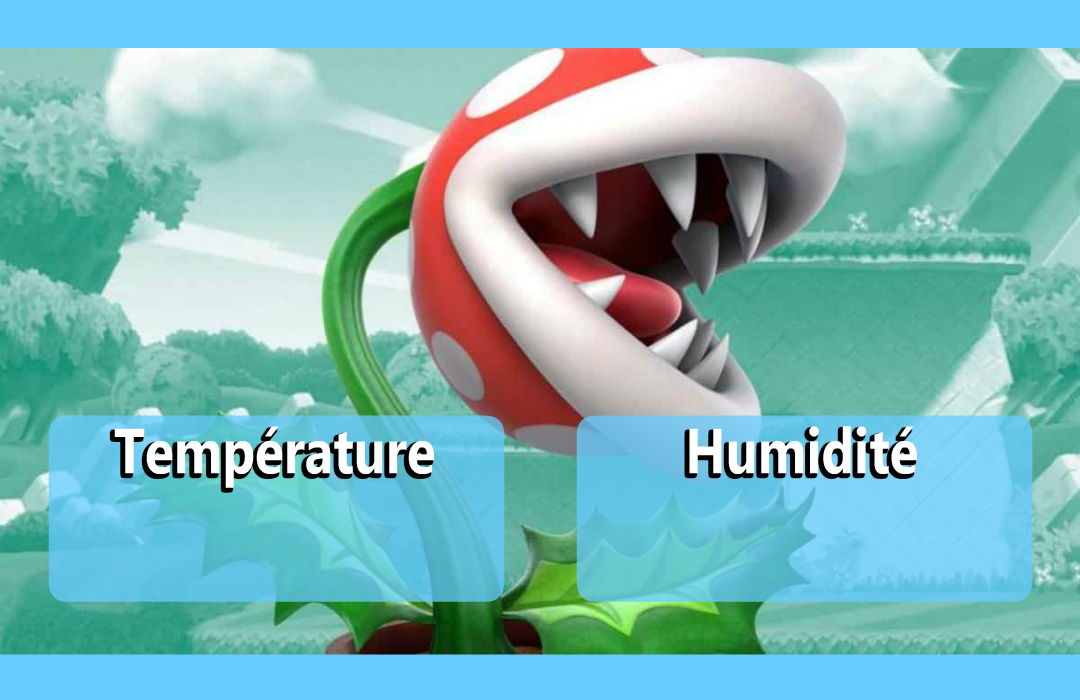
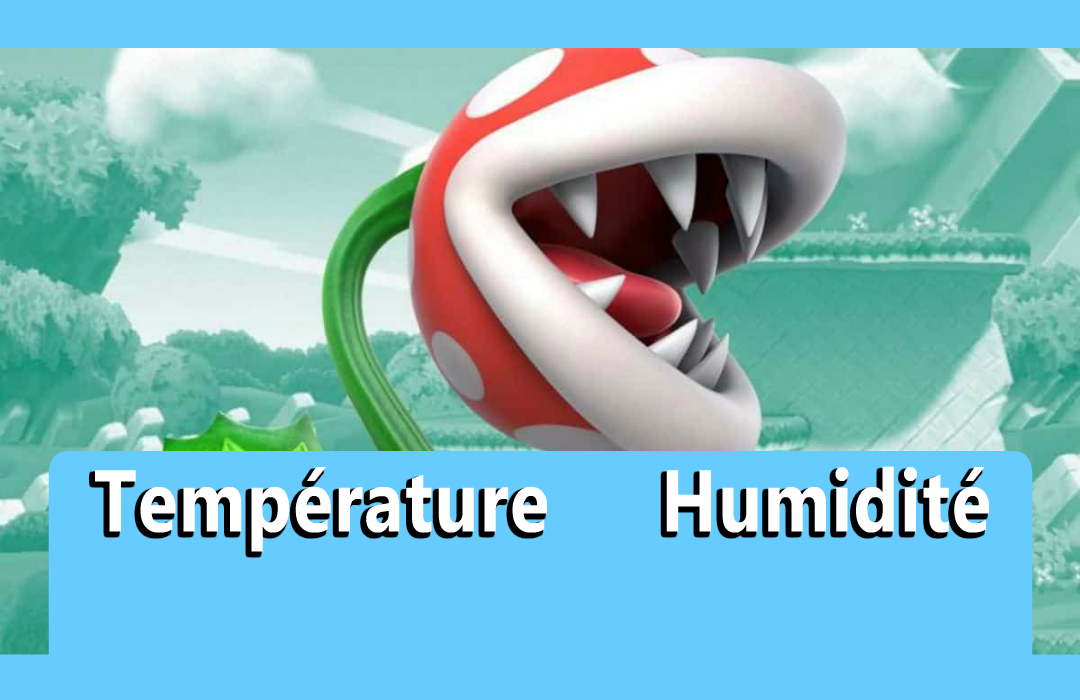
Added text onto images

Changed region(s): [[0.0306, 0.57, 0.9778, 0.96]]

diff --git a/scenario.py b/scenario.py
@@ -2,8 +2,10 @@ from __future__ import absolute_import
 
 from data_drawer import BarDraw
 from datas.models.Flower import Flower
+from py_video_mapping import draw_text_onto_image
 import logging.handlers
 import os
+import cv2
 
 from datas.repositories.PlayerRepository import PlayerRepository
 
@@ -85,10 +87,13 @@ class Scenario:
         self.py_video_mapping.show_image(2, "ressources/images/feedbacks/PasCompris.png")
 
     # Data
-    def display_plant_state(self, state):
+    def display_plant_state(self, state, mood, temperature, humidity):
         self.py_video_mapping.show_image(0, "ressources/images/etapes/Etape{}Plante.png".format(state))
-        # TODO rajouter la video par dessus l'image
-        self.py_video_mapping.show_image(1, "ressources/images/EtatPlante.png")
+        image_text1 = draw_text_onto_image(cv2.imread("ressources/images/EtatPlante.png"), "{} C".format(temperature),
+                                           230, 650, 3)
+        image_text2 = draw_text_onto_image(image_text1, "{}%".format(humidity), 745, 650, 3)
+        self.py_video_mapping.show_video_on_wallpaper(1, "ressources/videos/animations/{}_plant.mp4".format(mood),
+                                                      image_text2, 225, 10, 650, 1, True)
         next_state = state + 1 if state < 4 else state
         self.py_video_mapping.show_image(2, "ressources/images/etapes/Etape{}Plante.png".format(next_state))
 

diff --git a/test_video_projection.py b/test_video_projection.py
@@ -6,6 +6,8 @@ py_video_mapping = PyVideoMapping(PyVideoMapping.get_all_screens()[1])
 #py_video_mapping.set_blackout(0, True)
 scenario = Scenario(py_video_mapping)
 
+scenario.display_plant_state(4, "angry", 23, 55)
+input("enter top stop")
 scenario.display_karaoke()
 input("enter top stop")
 scenario.display_main_menu()
@@ -27,8 +29,6 @@ input("enter top stop")
 scenario.display_bad_feedback()
 input("enter top stop")
 scenario.display_incomprehension_feedback()
-input("enter top stop")
-scenario.display_plant_state(4)
 input("enter top stop")
 scenario.display_plant_progression("happy")
 input("enter top stop")

diff --git a/py_video_mapping/py_video_mapping.py b/py_video_mapping/py_video_mapping.py
@@ -56,6 +56,15 @@ def add_sub_image(wall_paper, frame, x_offset, y_offset):
     return wall_paper_copy
 
 
+def draw_text_onto_image(image, text, x_offset, y_offset, scale):
+    org = (x_offset, y_offset)
+    font = cv2.FONT_HERSHEY_SIMPLEX
+    font_scale = scale
+    color = (0, 0, 0)
+    thickness = 5
+    return cv2.putText(image, text, org, font, font_scale, color, thickness, cv2.LINE_AA)
+
+
 class FaceObject:
 
     def __init__(self, output_width, output_height,

diff --git a/py_video_mapping/__init__.py b/py_video_mapping/__init__.py
@@ -1,6 +1,6 @@
 #!/usr/bin/env python
 # -*- coding: utf-8 -*-
 
-from .py_video_mapping import PyVideoMapping, ProjectorShow, VideoGetter, ImageGetter
+from .py_video_mapping import PyVideoMapping, ProjectorShow, VideoGetter, ImageGetter, draw_text_onto_image
 from .screen_relation import ScreenRelation, creat_monitor
 from .filevideostream import FileVideoStream
